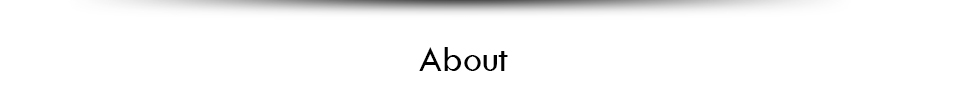
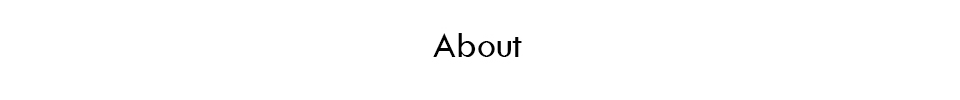
1
1

Changed region(s): [[0.1562, 0.0, 0.8125, 0.12], [0.4375, 0.33, 0.5625, 0.72]]

diff --git a/css/css1.css b/css/css1.css
@@ -1,9 +1,9 @@
 @charset "utf-8";
 /* CSS Document */
 *{margin:0; padding:0;}
-.top{width:1440px;height:150px;
+.top{width:1440px;height:120px;
 	margin:0 auto;
-	background-image:url(../images/top.jpg);}
+	background-image:url(../images/top.png); background-repeat:no-repeat; background-position:center;}
 #about{width:960px;height:500px;
 	margin:0 auto;
 	}	
